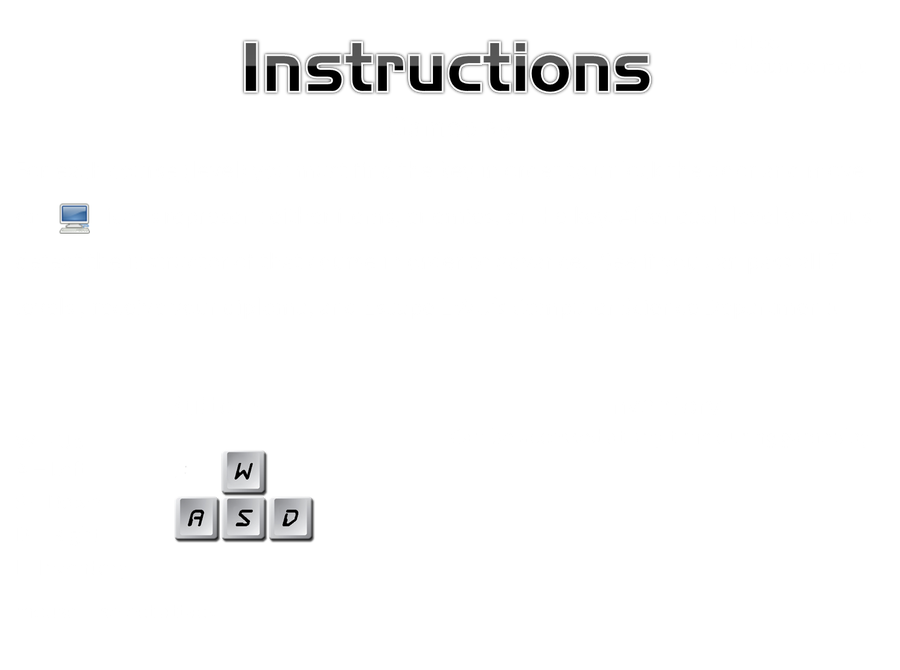
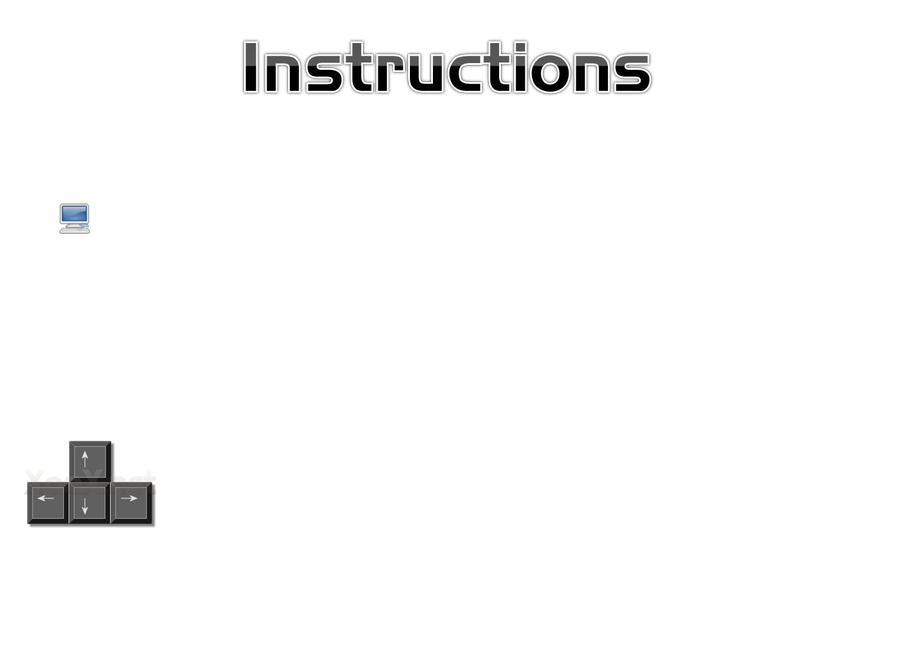
dfasfda

Changed region(s): [[0.0311, 0.6567, 0.3733, 0.806]]

diff --git a/src/csgame/Game.java b/src/csgame/Game.java
@@ -508,7 +508,7 @@ private void loadNextLevel(String filename) throws IOException{
 			
 		
 			switch(e.getKeyCode()){
-			case KeyEvent.VK_W:
+			case KeyEvent.VK_UP:
 				if( tilearray2[group.getRow() - 1][group.getColumn()].getType() != 1){//not a wall
 					group.moveUp();
 					//groupGUI.setMovingUp(true);
@@ -516,21 +516,21 @@ private void loadNextLevel(String filename) throws IOException{
 				
 				break;
 			
-			case KeyEvent.VK_S:
+			case KeyEvent.VK_DOWN:
 				if( tilearray2[group.getRow() + 1][group.getColumn()].getType() != 1){//not a wall
 					group.moveDown();
 					//groupGUI.setMovingDown(true);
 				}
 				break;
 			
-			case KeyEvent.VK_A:
+			case KeyEvent.VK_LEFT:
 				if( tilearray2[group.getRow()][group.getColumn() - 1].getType() != 1){//not a wall
 					group.moveLeft();
 					//groupGUI.setMovingLeft(true);
 				}
 				break;
 				
-			case KeyEvent.VK_D:
+			case KeyEvent.VK_RIGHT:
 				if( tilearray2[group.getRow()][group.getColumn() + 1].getType() != 1){//not a wall
 					group.moveRight();
 					//groupGUI.setMovingRight(true);
